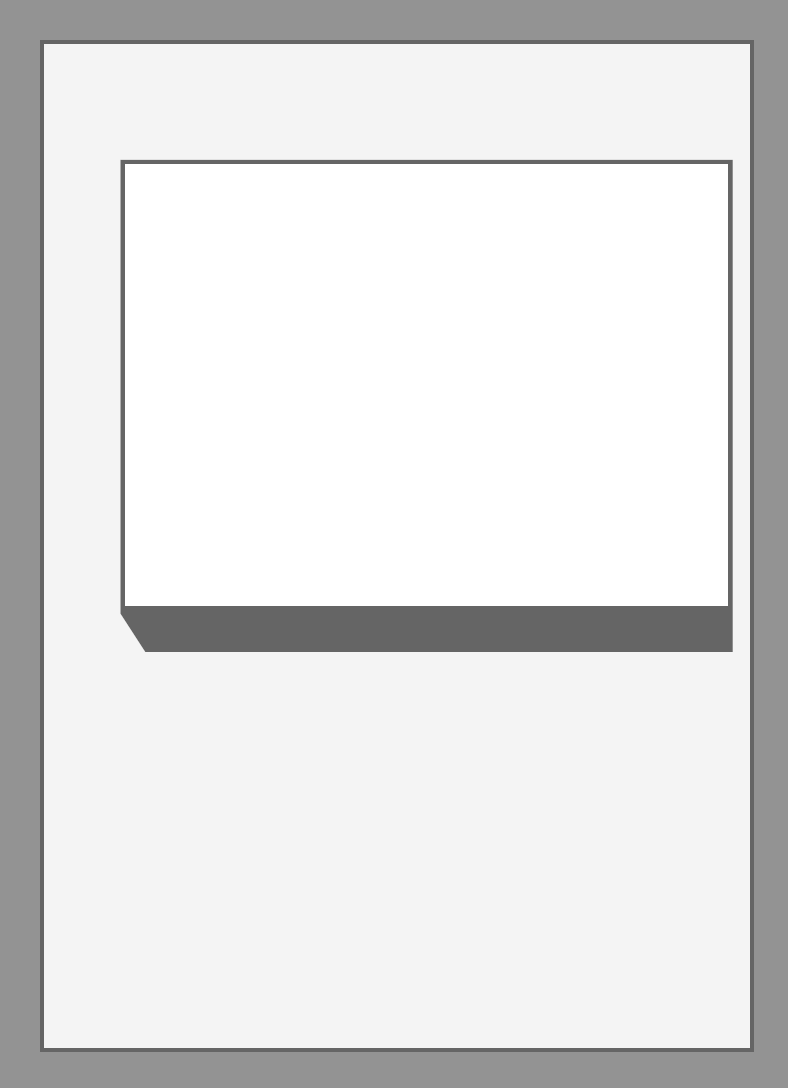
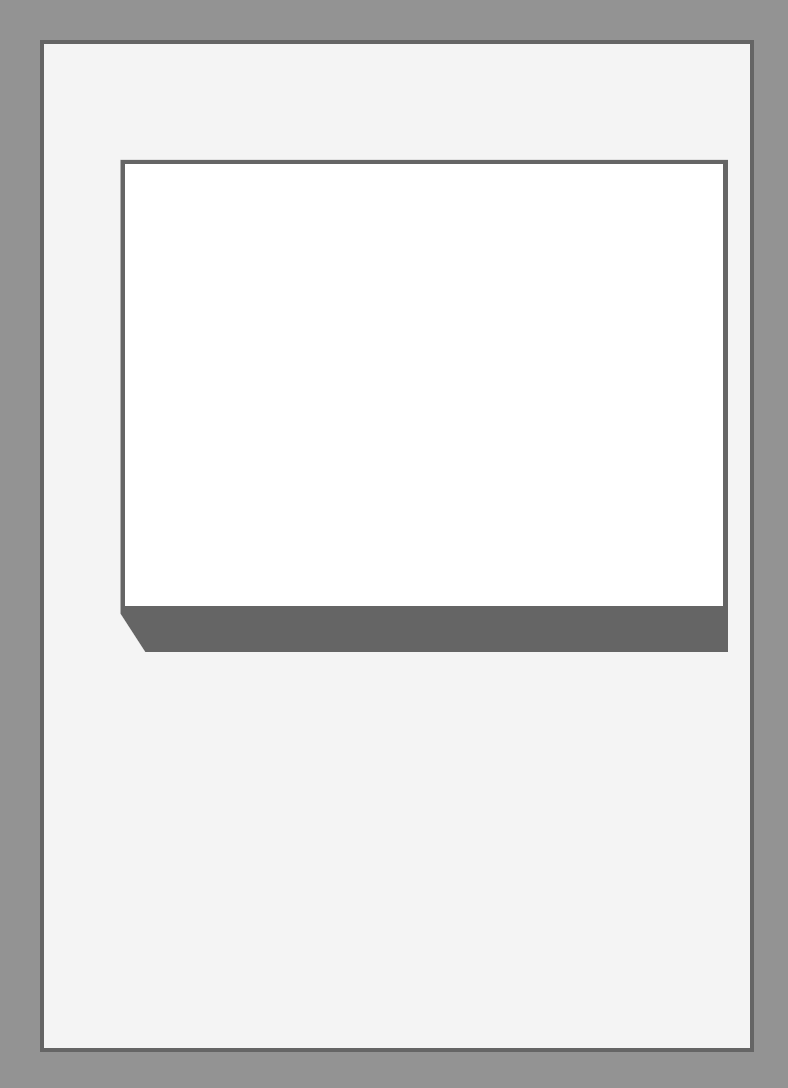
Updated the Card classes functions for setting temporary attributes - improved the style.

Changed region(s): [[0.9137, 0.1562, 0.9442, 0.5938]]

diff --git a/libs/Deck.py b/libs/Deck.py
@@ -35,19 +35,19 @@ def cut_and_paste_strip(src_img, dest_srf, p_rect):
 	srf = pygame.Surface(rect.size,SRCALPHA)
 	srf.fill((255,255,255,0))
 	srf.blit(src_img,(-rect.left,-rect.top))
-	srf.fill((255,255,220), None, special_flags = BLEND_RGB_MULT)
+	srf.fill((255,255,200), None, special_flags = BLEND_RGB_MULT)
 	pygame.draw.rect(srf, (255,255,255), (0,0,rect.width,rect.height), 4)
-	srf = apply_shadow(srf,15,64)
-	"""
-	offset = 5
+	srf = apply_shadow(srf,8,32)
+
+	offset = 3
 	p1 = (rect.left+lerp(-offset,offset,random.random()),rect.top+lerp(-offset,offset,random.random()))
 	p2 = (rect.right+lerp(-offset,offset,random.random()),rect.bottom+lerp(-offset,offset,random.random()))
 	center = ((p1[0]+p2[0])/2.0,(p1[1]+p2[1])/2.0)
 	angle = math.degrees(math.atan2(rect.height,rect.width)-math.atan2(p2[1]-p1[1],p2[0]-p1[0]))
 	new_srf = pygame.transform.rotozoom(srf, angle, 1.0)
-	"""
-	new_srf = srf
-	new_rect = new_srf.get_rect(center = rect.center)
+
+	#new_srf = srf
+	new_rect = new_srf.get_rect(center = center)#rect.center)
 	dest_srf.blit(new_srf,new_rect)
 
 
@@ -280,7 +280,7 @@ class Card(object):
 			self.flagged_for_rerender = False
 			self.image = self.original_image.copy()
 			if self.temp_image != None or self.temp_keywords!=None or self.temp_race!=None or self.temp_gender!=None:
-				self.image.fill((220,220,220), None, special_flags = BLEND_RGB_MULT)
+				#self.image.fill((220,220,220), None, special_flags = BLEND_RGB_MULT)
 				#We draw out temporary changes.
 				#We are going to create a template to help make this part faster.
 				attr={}
@@ -303,7 +303,7 @@ class Card(object):
 					img = pygame.transform.smoothscale(img, CARD_SIZE)
 				#Finally, we "cut strips" out of the template image and blit them onto the card's image.
 				if self.temp_image != None:
-					cut_and_paste_strip(img, self.image, (75/394.,103/544.,273/394.,181/544.))
+					cut_and_paste_strip(img, self.image, (53/394.,75/544.,318/394.,236/544.))
 				if self.temp_printed_name != None:
 					cut_and_paste_strip(img, self.image, (83/392.,15/542.,297/392.,75/542.))
 				if self.temp_keywords != None:

diff --git a/card_temp_attr_test.py b/card_temp_attr_test.py
@@ -18,22 +18,21 @@ class Main(object):
 		self.framerate = 60
 		self.clock = pygame.time.Clock()
 
-		self.reset()
-		self.run()
-
-	def reset(self):
-		reload(libs.Deck)
-
 		print "A"
 		self.card = libs.Deck.Card()
 		self.card.parsePickledCard(open_pickledcard("data/default_cards/PonyChangelingEarth.tsssf"))
 
 		print "B"
 		self.imit_card = libs.Deck.Card()
-		self.imit_card.parsePickledCard(open_pickledcard("data/default_cards/PonyApplejackTheCutestSmartestAllaroundbestBackgroundPony.tsssf"))
+		#self.imit_card.parsePickledCard(open_pickledcard("data/default_cards/PonyApplejackTheCutestSmartestAllaroundbestBackgroundPony.tsssf"))
+		self.imit_card.parsePickledCard(open_pickledcard("data/default_cards/PonyBraeburn.tsssf"))
 
 		print "C"
 
+		self.reset()
+		self.run()
+
+	def reset(self):
 		self.card.imitate_card(self.imit_card)
 
 		self.card.rerender()
